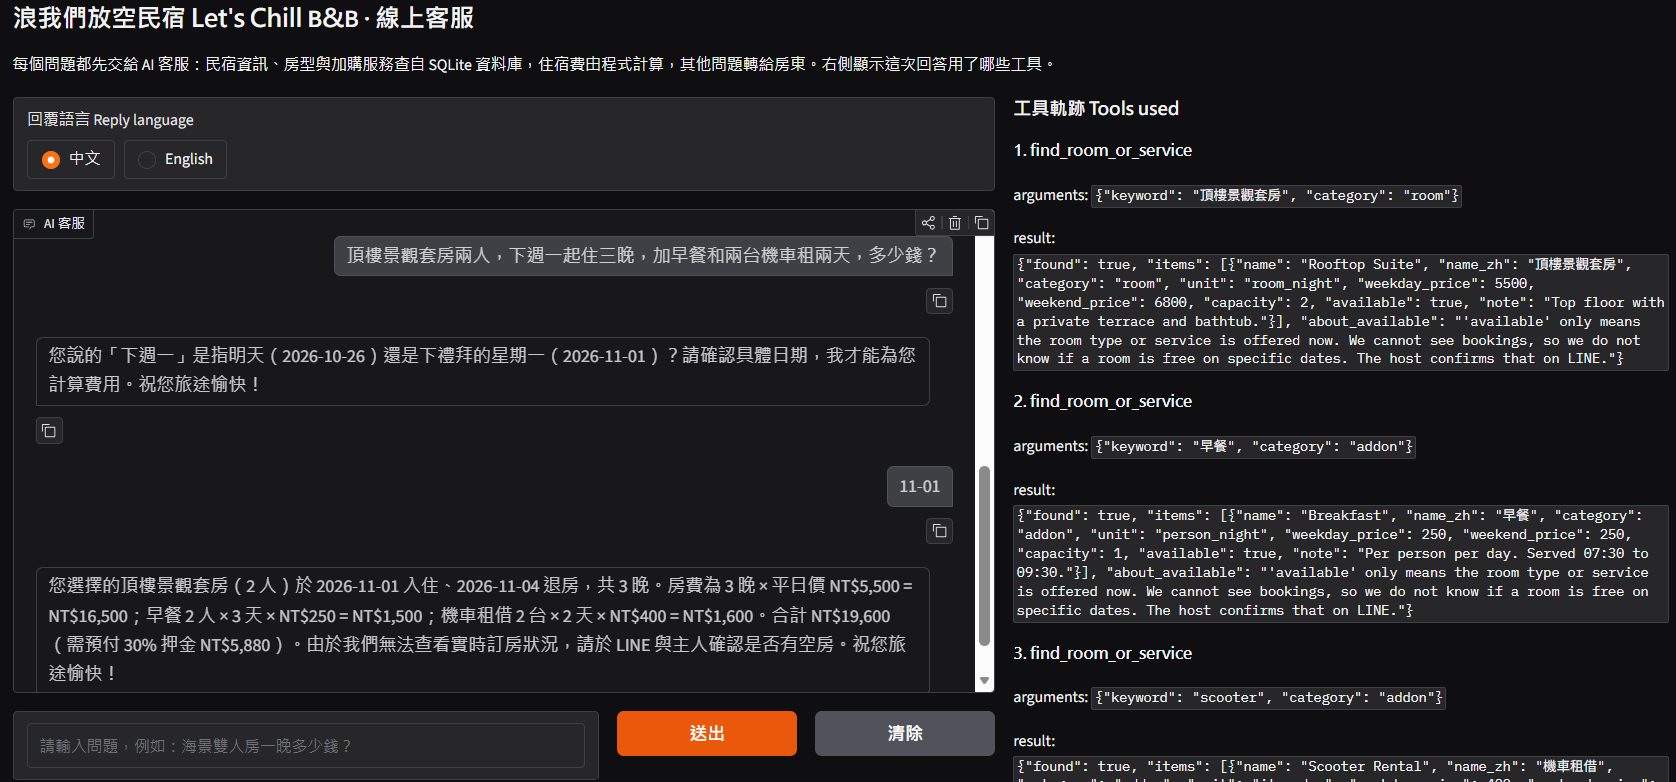
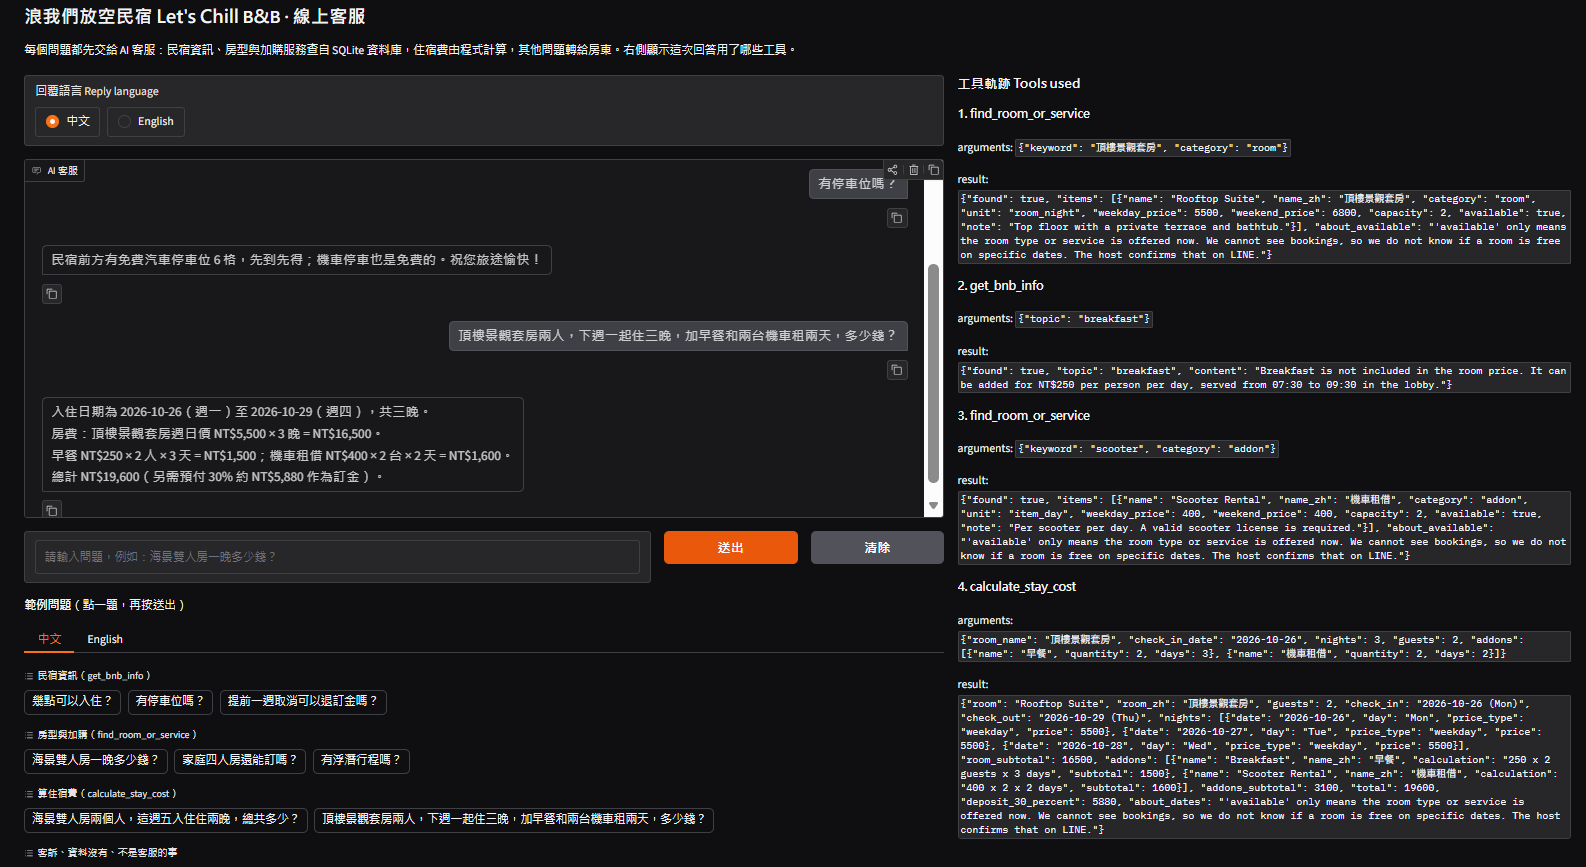
Update screenshots and README after the calendar fix
New calculation screenshot with the full tool trace, the tool-choice
test output, and a note on the calendar in the README.

diff --git a/README.md b/README.md
@@ -48,7 +48,8 @@ The panel on the right of the chat page shows each tool call, its arguments and 
   | `calculate_stay_cost(room_name, check_in_date, nights, guests, addons)` | checks every night: Friday and Saturday nights use the weekend price, other nights the weekday price; then adds the add-ons by their unit (per person per day, per person, per item per day, per trip or per set) and returns the total and a 30% deposit |
   | `transfer_to_human(reason)` | gives the host's LINE ID and phone number |
 
-- **Safety in the agent loop:** at most 6 model calls per question; only our own four tools can run (an unknown tool name or bad arguments return an error instead of crashing); today's date is given to the model so that "this Friday" becomes a real date.
+- **Safety in the agent loop:** at most 6 model calls per question; only our own four tools can run (an unknown tool name or bad arguments return an error instead of crashing); today's date and a calendar of the next 15 days are given to the model so that "this Friday" becomes a real date,
+  and `calculate_stay_cost` returns every date with its weekday (the model wrote wrong weekdays when it worked them out itself).
 
 ## Sample Conversations
 
